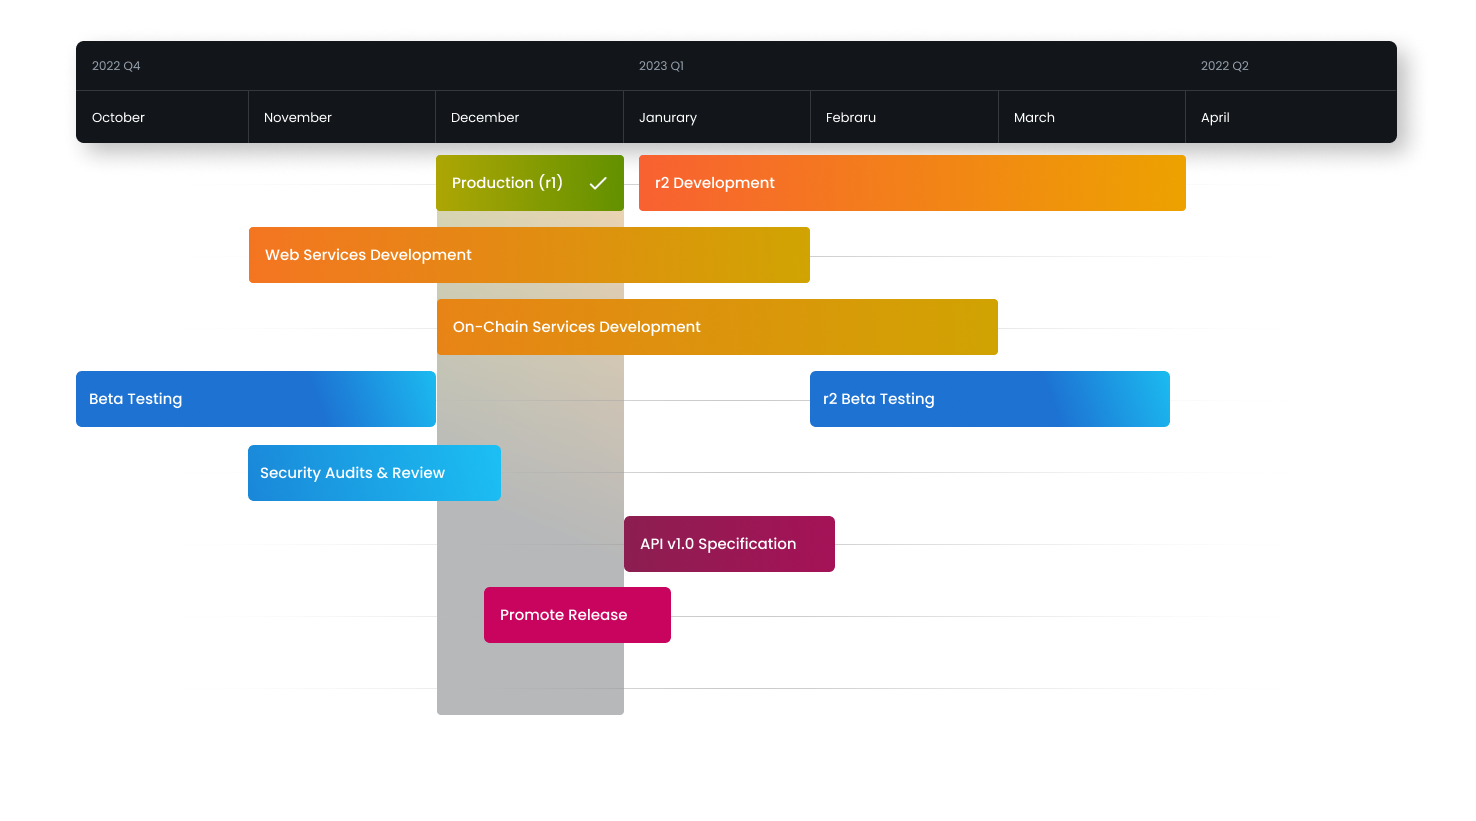
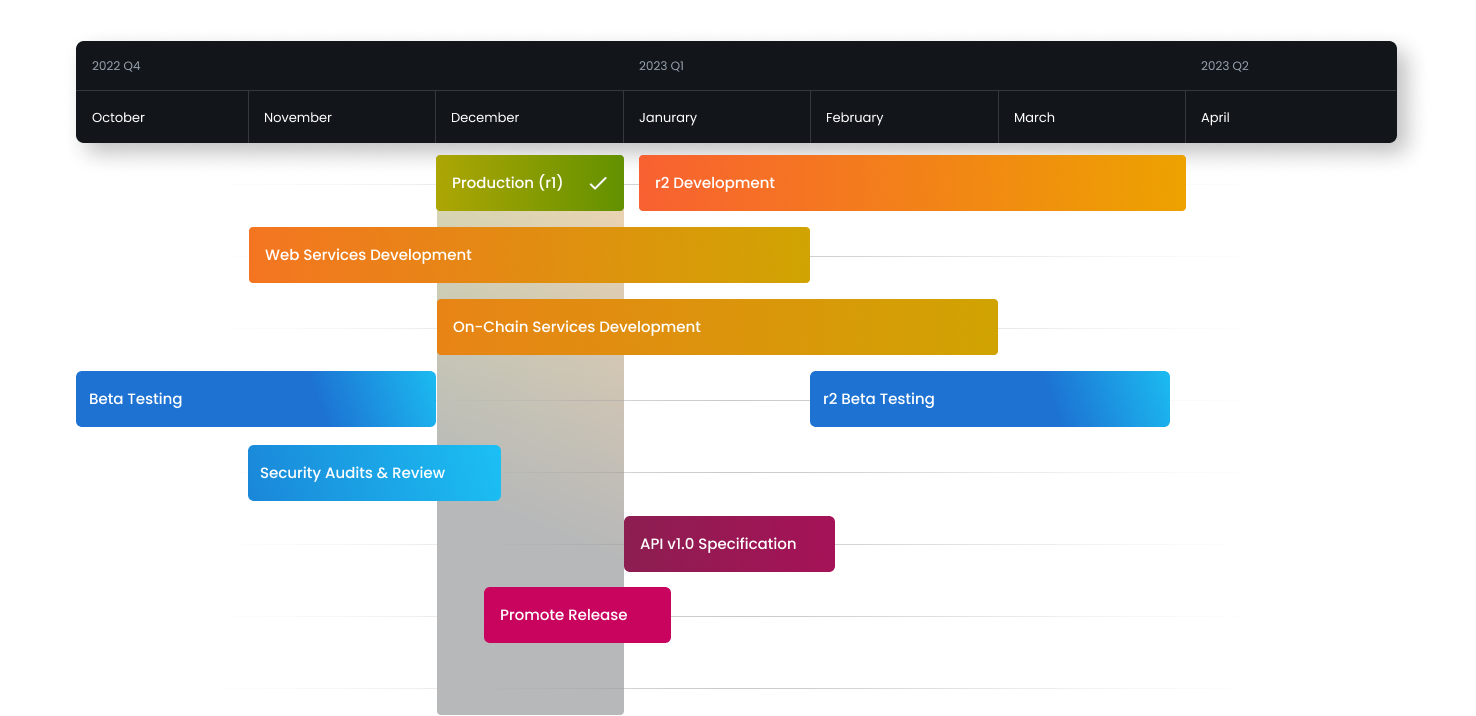
Install links added, beta mentions removed
Added buttons in the beginning and in the end with install link, also install link added to top nav, fixed errors with and within roadmap, removed mentions about beta.

Changed region(s): [[0.0312, 0.1229, 0.9661, 1.0], [0.0623, 0.0307, 0.9661, 0.0922]]

diff --git a/css/styles.css b/css/styles.css
@@ -217,6 +217,10 @@ nav img {
   text-decoration: none;
   display: inline-block;
 }
+.button-big {
+  font-size: 21px;
+  padding: 20px 35px;
+}
 .sectionContainer {
   margin: 0px auto;
   text-align: center;
@@ -262,6 +266,10 @@ nav img {
 .sectionContainer-roadmap h2 {
   margin-bottom: 50px;
   margin-top: 150px;
+}
+.sectionContainer-roadmap img {
+  width: 100%;
+  max-width: 1476px;
 }
 .sectionContainer-canvas img {
   margin-right: 40px;
@@ -415,6 +423,14 @@ nav img {
 .sectionContainer-identities h2 {
   margin-top: 0px;
 }
+.sectionContainer-coming {
+  background-image: url(/media/bgcoming.png);
+  background-position: center;
+  background-repeat: no-repeat;
+  text-align: center;
+  padding: 25px 0;
+  margin: 20px auto 4%;
+}
 .sectionContainer-power {
   background-image: url("/media/powerusersbg.png");
   margin-top: -100px;
@@ -433,8 +449,11 @@ nav img {
 }
 #textHello {
   position: relative;
-  top: 230px;
+  top: 100px;
   max-width: 360px;
+}
+#textHello p {
+  margin-bottom: 40px;
 }
 #imgHello {
   position: absolute;
@@ -684,7 +703,8 @@ footer a {
   }
   .sectionContainer-roadmap img {
     width: calc(100% - 80px);
-    margin: inherit 40px;
+    margin-right: 40px;
+    margin-left: 40px;
   }
   .sectionContainer-roadmap h2 {
     margin-top: 40px;
@@ -924,6 +944,10 @@ footer a {
     margin: 0;
     width: 100%;
   }
+  .button-big {
+    font-size: 16px;
+    padding: 15px 20px;
+  }
   .sectionContainer-security {
     padding-bottom: 0;
   }
@@ -1010,7 +1034,7 @@ footer a {
   }
   #textHello p {
     width: 80%;
-    margin: 0 auto;
+    margin: 0 auto 30px;
   }
   .sectionContainer-antidoxx .wrapper {
     width: calc(100% - 40px);
@@ -1102,6 +1126,7 @@ footer a {
   }
   .sectionContainer-roadmap img {
     width: calc(100% - 40px);
+    margin: 0;
   }
   .footerColumn-label {
     display: none;

diff --git a/index.html b/index.html
@@ -40,7 +40,7 @@
   <div class="navText">
     <span><a href="/media.html">Media</a></span>
     <span><a href="/faq.html">FAQ</a></span>
-    <span>Coming Q4 2022</span>
+    <span><a href="https://install.starshell.net/" target="_blank">Install</a></span>
     <div class="navText-icons">
       <a href="https://twitter.com/StarShellWallet" target="_blank"><img id="twitter" src="/media/twitter.png"></a>
       <a href="https://discord.gg/U8SSK7T4xh" target="_blank"><img src="/media/discord.png"></a>
@@ -57,6 +57,7 @@
   <div id="textHello">
     <h1>StarShell</h1>
     <p>A privacy-preserving, free and open-source Web3 wallet built for the Secret Network and Cosmos ecosystem.</p>
+    <a class="button button-big" href="https://install.starshell.net/" target="_blank">Install the App</a>
   </div>
   
   <div class="wrapperDown">
@@ -314,7 +315,7 @@ StarShell Validator</h2>
   <div class="wrapper">
     <h2>Keep your online &#38; personal<br>identities separate</h2>
     <p>Send and receive via your existing Twitter or Telegram handles without doxxing<br>your wallet address. No lockups, no QR codes, no copy/paste, no imposters accounts,<br>no competing for aliases; just simple tag-and-send.</p>
-    <a href="https://discord.gg/U8SSK7T4xh" class="button">Join the beta</a>
+    <a href="https://discord.gg/U8SSK7T4xh" class="button">Join our Discord</a>
   </div>
 
 </div>
@@ -416,9 +417,9 @@ StarShell Validator</h2>
 
 <!----Coming---->
 
-<div class="ectionContainer sectionContainer-coming hiddenDesktop">
-  <h2 class="comingTitle">Coming Q1 2023</h2>
-  <a class="button">Lorem Ipsum</a>
+<div class="ectionContainer sectionContainer-coming">
+  <h2 class="comingTitle">Install Wallet Now</h2>
+  <a href="https://install.starshell.net/" target="_blank" class="button button-big">Install the App</a>
 </div>
 
 <!----Footer---->

diff --git a/less/styles.less b/less/styles.less
@@ -170,6 +170,11 @@ nav {
 	display: inline-block;
 }
 
+.button-big {
+	font-size: @fontlarge;
+	padding: 20px 35px;
+}
+
 .sectionContainer {
 	margin: 0px auto;
 	text-align: center;
@@ -224,6 +229,11 @@ padding-bottom: 0;
 	h2 {
 		margin-bottom: 50px;
     	margin-top: 150px;
+	}
+
+	img {
+		width: 100%;
+		max-width: 1476px;
 	}
 }
 
@@ -416,6 +426,15 @@ padding-bottom: 0;
 	}
 }
 
+.sectionContainer-coming {
+    background-image: url(/media/bgcoming.png);
+    background-position: center;
+    background-repeat: no-repeat;
+    text-align: center;
+    padding: 25px 0;
+    margin: 20px auto 4%;
+}
+
 .sectionContainer-power {
 	background-image: url("/media/powerusersbg.png");
 	margin-top: -100px;
@@ -437,8 +456,12 @@ padding-bottom: 0;
 
 #textHello {
 	position: relative;
-	top: 230px;
+	top: 100px;
 	max-width: 360px;
+
+	p {
+		margin-bottom: 40px;
+	}
 }
 
 #imgHello {
@@ -748,7 +771,8 @@ footer {
 
   	img {
   		width: calc(100% - 80px);
-  		margin: inherit 40px;
+  		margin-right: 40px;
+  		margin-left: 40px;
   	}
 
   	h2 {
@@ -1067,6 +1091,11 @@ footer {
 		width: 100%;
 	}
 
+	.button-big {
+		font-size: @fontmed;
+		padding: 15px 20px;
+	}
+
 	.sectionContainer-security {
 		padding-bottom: 0;
 
@@ -1180,7 +1209,7 @@ footer {
 
   #textHello p {
   	width: 80%;
-  	margin: 0 auto;
+  	margin: 0 auto 30px;
   }
 
 	.sectionContainer-antidoxx .wrapper {
@@ -1293,6 +1322,7 @@ footer {
 
 		img {
 			width: calc(100% - 40px);
+			margin: 0;
 		}
 	}
 

diff --git a/faq.html b/faq.html
@@ -52,7 +52,7 @@
   <div class="navText">
     <span><a href="/index.html">Home</a></span>
     <span><a href="/media.html">Media</a></span>
-    <span>Coming Q4 2022</span>
+    <span><a href="https://install.starshell.net/" target="_blank">Install</a></span>
     <div class="navText-icons">
       <a href="https://twitter.com/StarShellWallet" target="_blank"><img id="twitter" src="../media/twitter.png"></a>
       <a href="https://discord.gg/U8SSK7T4xh" target="_blank"><img src="../media/discord.png"></a>
@@ -68,10 +68,10 @@
 
     <div class="faqContainer">
       <div class="faqTitle" onclick="hideSeek('.faqAnswer1','.arrow1')">
-        <img src="../media/arrow.svg" class="arrow1"><p>Is there a beta or testnet?</p>
+        <img src="../media/arrow.svg" class="arrow1"><p>Is there a testnet?</p>
       </div>
       <div class="faqAnswer faqAnswer1 hidden">
-        <p>Yes! However, we are currently in between testing periods. <a href="https://mvp.s2r.sh/">Check out the demo</a> from our last beta if you would like to play with the UI.</p>
+        <p>Yes! However, we are currently in between testing periods. <a href="https://install.starshell.net/" target="_blank">Install wallet</a> if you would like to play with the testnet.</p>
       </div>
     </div>
 

diff --git a/media.html b/media.html
@@ -39,7 +39,7 @@
   <div class="navText">
     <span><a href="/index.html">Home</a></span>
     <span><a href="/faq.html">FAQ</a></span>
-    <span>Coming Q4 2022</span>
+    <span><a href="https://install.starshell.net/" target="_blank">Install</a></span>
     <div class="navText-icons">
       <a href="https://twitter.com/StarShellWallet" target="_blank"><img id="twitter" src="/media/twitter.png"></a>
       <a href="https://discord.gg/U8SSK7T4xh" target="_blank"><img src="/media/discord.png"></a>
